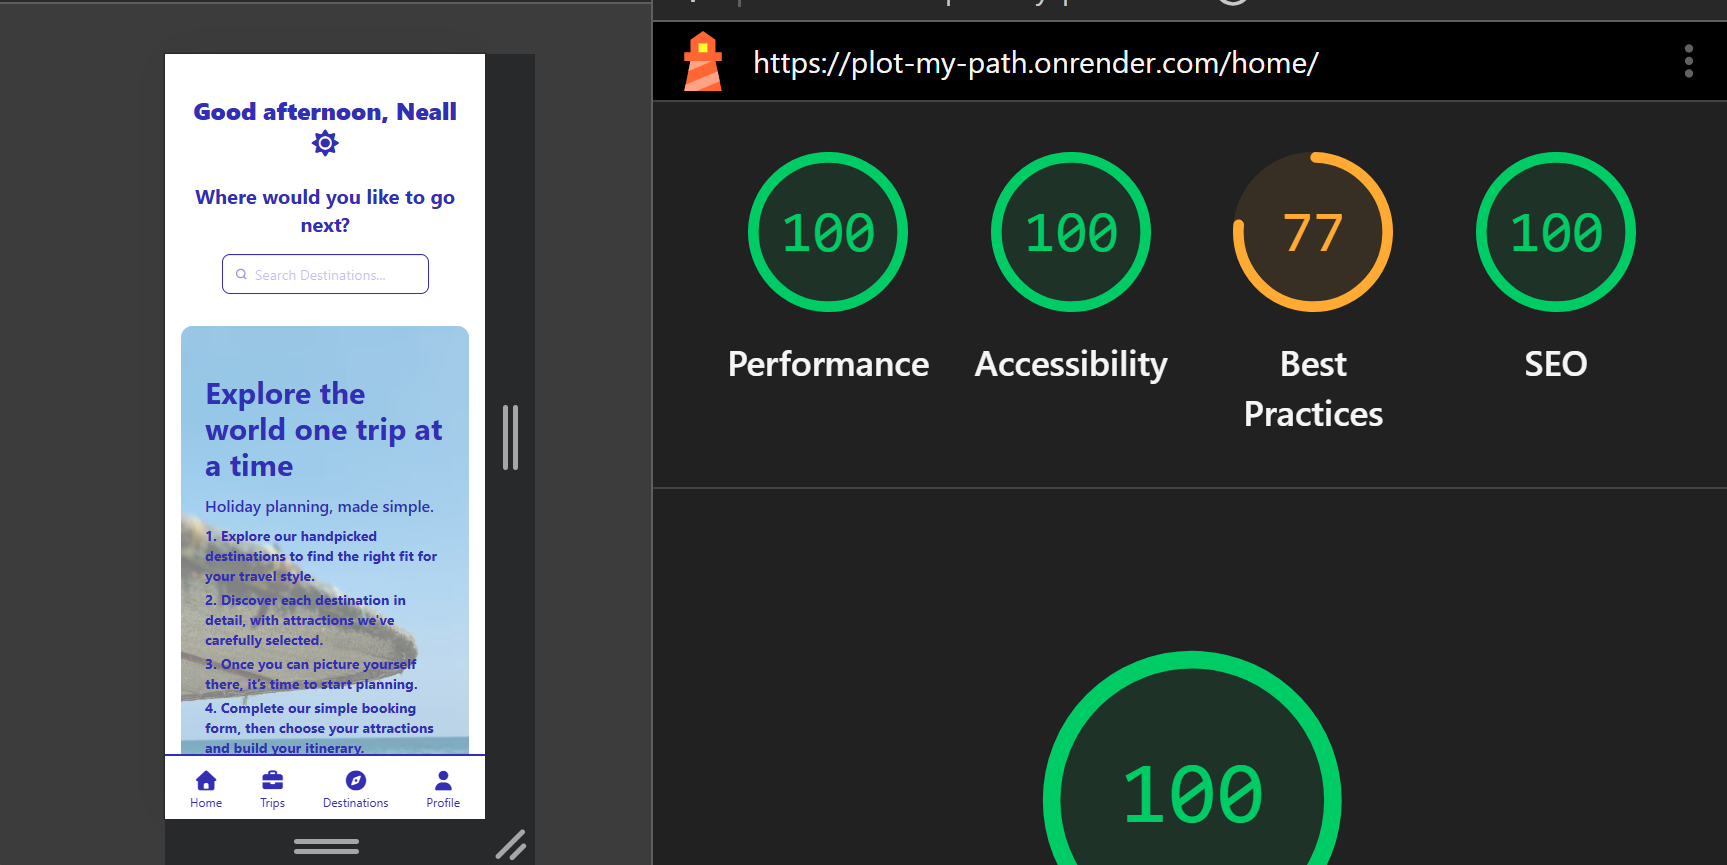
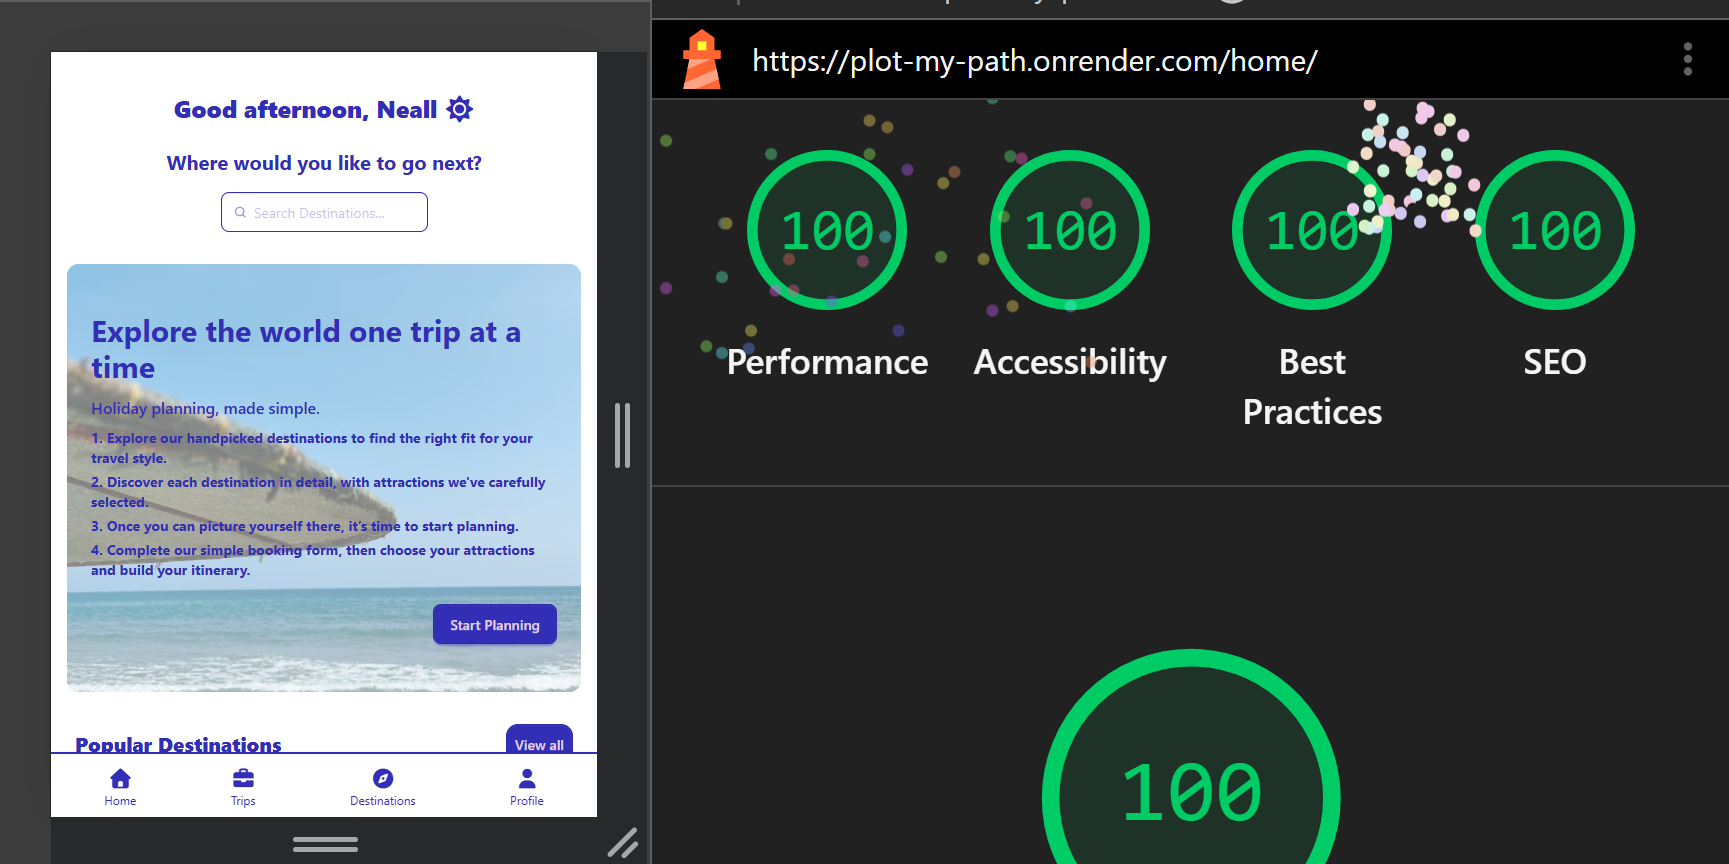
home lighthouse tests updated after cookie fix

diff --git a/README.md b/README.md
@@ -588,7 +588,7 @@ Django, django-allauth, React, Vite (via django-vite), Tailwind CSS with daisyUI
 |-------------------|-------------|---------------|----------------|-----|
 | First Test Score  | 77          | 100           | 77             | 100 |
 | Second Test Score | 87          | 100           | 77             | 100 |
-| Third Test Score  | 96          | 100           | 77             | 100 |
+| Third Test Score  | 93          | 100           | 100            | 100 |
 
 ![Lighthouse mobile test 1](../plot_my_path/static/images/readme-img/home-lighthouse-1.png)
 ![Lighthouse mobile test 2](../plot_my_path/static/images/readme-img/home-lighthouse-2.png)
@@ -602,12 +602,14 @@ Django, django-allauth, React, Vite (via django-vite), Tailwind CSS with daisyUI
   - q_auto: automatically adjusts image quality to reduce file size.
   - f_auto: automatically serves an efficient image format supported by the browser.
 - I also added get_image_url_srcset, which generates multiple image sizes so the browser can choose the most suitable one for the screen and display size. The same changes were applied to the attractions get_image_url to prevent similar issues from arising there.
-- The HTML was then updated to use the new methods, which raised the Performance score from 77 to 96:
+- The HTML was then updated to use the new methods, which raised the Performance score from 77 to 93:
+- crossorigin anonymous added to img as well to solve cookie issue affecting best practices
 
 img
   src="{{ destination.get_image_url }}"
   srcset="{{ destination.get_image_url_srcset }}"
   alt="{{ destination.name }}"
+  crossorigin = "anonymous"
   loading="lazy"
   decoding="async"
   class="w-full h-full object-cover"
@@ -617,11 +619,12 @@ img
 
 |                  | Performance | Accessibility | Best Practices | SEO |
 |------------------|-------------|---------------|----------------|-----|
-| First Test Score | 100         | 100           | 77             | 100 |
+| First Test Score | 100         | 100           | 100            | 100 |
 
 ![Lighthouse desktop test](../plot_my_path/static/images/readme-img/home-desktop-lighthouse.png)
 
 - As the mobile fixes had already been applied, the desktop test scored highly in every category. No further changes were needed.
+
 
 
 [back to top](#plot-my-path)
@@ -1263,7 +1266,7 @@ Preserving test database for alias 'default'...
 ---
 
 ##### Payments Model Testing – The Tests
-
+**Retesting done after cloudinary image fetching was updated for better lighthouse scores.**
 - Payments model tests ran at commit **72fe012**.
 
 **Payment model**
